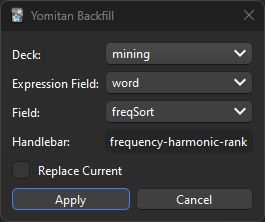
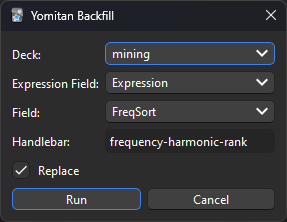
remove line comprehension, apply -> run, readme fixes

diff --git a/__init__.py b/__init__.py
@@ -44,7 +44,7 @@ class BackfillDialog(QDialog):
         self.yomitan_handlebar = QLineEdit()
         self.apply = QPushButton("Run")
         self.cancel = QPushButton("Cancel")
-        self.replace = QCheckBox("Replace Current");
+        self.replace = QCheckBox("Replace");
         
         form = QFormLayout()
         form.addRow(QLabel("Deck:"), self.decks)
@@ -66,7 +66,7 @@ class BackfillDialog(QDialog):
         self._update_fields()
 
         self.decks.currentIndexChanged.connect(self._update_fields)
-        self.apply.clicked.connect(self._on_apply)
+        self.apply.clicked.connect(self._on_run)
         self.cancel.clicked.connect(self.reject)
 
     def _load_decks(self):
@@ -85,13 +85,7 @@ class BackfillDialog(QDialog):
         if deck_id is None:
             return
 
-        rows = mw.col.db.list(
-            "SELECT DISTINCT n.mid"
-            " FROM notes n"
-            " JOIN cards c ON n.id = c.nid"
-            " WHERE c.did = ?", deck_id
-        )
-        model_ids = [row for row in rows]
+        model_ids = mw.col.db.list("SELECT DISTINCT n.mid FROM notes n JOIN cards c ON n.id = c.nid WHERE c.did = ?", deck_id)
 
         field_names = set()
         for mid in model_ids:
@@ -103,7 +97,7 @@ class BackfillDialog(QDialog):
             self.fields.addItem(name)
             self.expression_field.addItem(name)
     
-    def _on_apply(self):
+    def _on_run(self):
         deck_id = self.decks.currentData()
         expression_field = self.expression_field.currentText()
         field = self.fields.currentText()

diff --git a/README.md b/README.md
@@ -11,10 +11,10 @@ This is a basic Anki add-on to backfill fields using [Yomitan's API](https://git
 2. Go to `Tools -> Backfill from Yomitan` in the top bar
 3. Select your deck in the `Deck` dropdown
 4. For `Expression Field` choose the expression field (e.g. `Expression` in Lapis, `word` in Senren) of your note type, this is the field that will be queried into Yomitan
-5. For `Field` choose the field which is to be backfilled
-6. In `Handlebar` type in the Yomitan handlebar, from which you wish to pull data from, without the {} brackets (e.g. frequency-harmonic-rank) 
-7. Optionally tick `Replace Current` if you wish to replace the current content of the field in every card
-8. Press Run
+5. For `Field` choose the field to be backfilled
+6. In `Handlebar` type in the Yomitan handlebar, from which you wish to pull data from, without brackets (e.g. `frequency-harmonic-rank`) 
+7. Optionally tick `Replace` if you wish to replace the current content of the field in every card
+8. Press `Run`
 
 Changes can be undone with `Edit -> Undo` or with `CTRL + Z`
 
